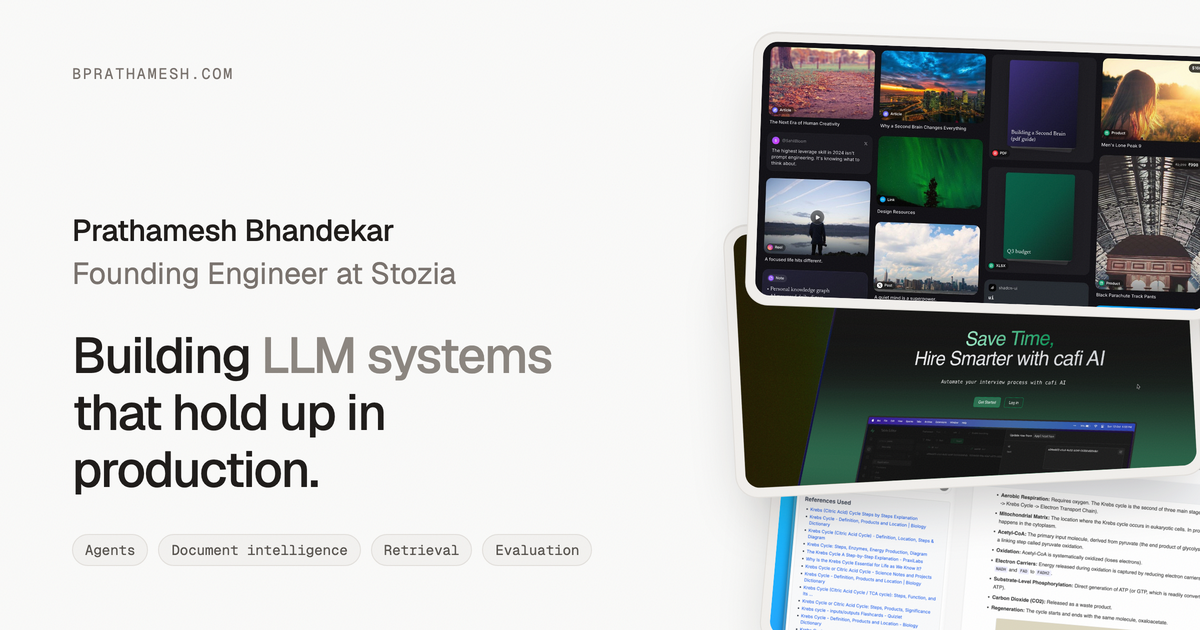
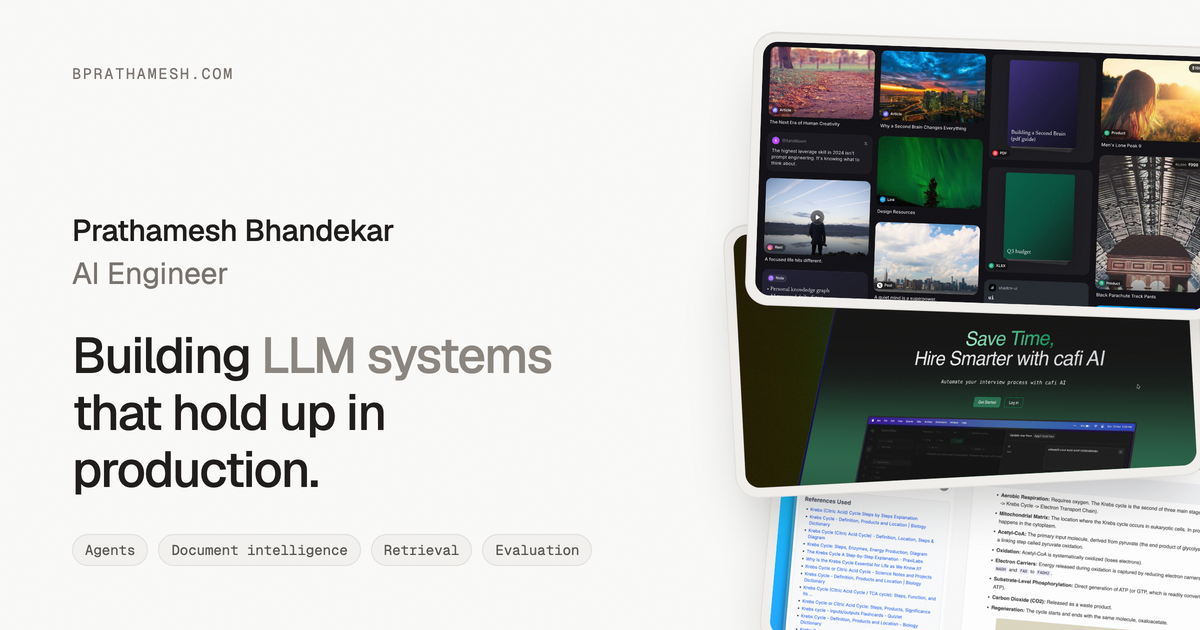
Position as a general AI engineer; keep Stozia as current role only
Header, hero, metadata, Person JSON-LD and share image now describe an
AI engineer rather than a Stozia-branded founding engineer. Experience
is trimmed to a single line; stats, bullets and education are removed.

Changed region(s): [[0.0617, 0.4222, 0.4008, 0.4524]]

diff --git a/app/page.tsx b/app/page.tsx
@@ -43,20 +43,6 @@ const focus = [
   },
 ]
 
-const stozia = {
-  stats: [
-    { value: "100M+", label: "LLM tokens processed" },
-    { value: "900+", label: "supplier quotes structured" },
-    { value: "50", label: "users at 7 manufacturers" },
-  ],
-  points: [
-    "Own the LLM pipeline layer: LangGraph multi-agent workflows for document interpretation, supplier discovery, cost modelling, quote comparison and negotiation planning.",
-    "Built multimodal document-intelligence pipelines that turned about 900 supplier quotes into structured commercial and engineering data across 225+ procurement cases.",
-    "Built an evaluation harness on held-out documents labelled by procurement experts to compare 18 models on field-level accuracy, latency and cost. Its results supported moving to a cheaper model with prompt caching: 37% modelled cost avoidance against uncached list pricing, with no accuracy loss on the labelled set.",
-    "Added per-agent observability for cost, latency, failures and tokens, and ship the FastAPI, MySQL, Celery and Redis services to Azure Container Apps through GitHub Actions.",
-  ],
-}
-
 export default function Portfolio() {
   const posts = getAllPosts().slice(0, 5)
   const projects = getAllProjects()
@@ -72,22 +58,22 @@ export default function Portfolio() {
         <BlurFade delay={0.1}>
           <section className="mt-14 space-y-5">
             <h1 className="text-[26px] font-medium leading-[1.3] tracking-[-0.02em] text-balance md:text-[30px]">
-              Founding engineer building{" "}
+              AI engineer building{" "}
               <span className="whitespace-nowrap text-muted-foreground">LLM systems</span> that hold
               up in production.
             </h1>
             <p className="text-[15px] leading-relaxed text-muted-foreground">
-              At{" "}
-              <a href={site.company.url} target="_blank" rel="noopener" className="link">
-                Stozia
-              </a>
-              , an AI sourcing platform for manufacturers, I own the LLM pipeline layer:
-              agents that read supplier documents, extract structured data, and draft
-              negotiation and approval recommendations. I care about the parts that decide
-              whether AI works in production: evaluation, cost, latency and observability.
+              I design and build LLM systems end to end: agentic workflows, document
+              intelligence, retrieval, and the evaluation that shows whether any of it
+              works. I care about what decides success in production: cost, latency,
+              observability and knowing when an answer is wrong.
             </p>
             <p className="text-[15px] leading-relaxed text-muted-foreground">
-              Outside work I build tools like{" "}
+              I currently work at{" "}
+              <a href={site.company.url} target="_blank" rel="noopener" className="link">
+                {site.company.name}
+              </a>
+              . On the side I build tools like{" "}
               <Link href="/projects/mindvault" className="link">
                 MindVault
               </Link>
@@ -136,67 +122,20 @@ export default function Portfolio() {
         </BlurFade>
 
         <Section title="Experience">
-          <ol className="space-y-12">
-            <li>
-              <div className="flex flex-wrap items-baseline justify-between gap-x-6 gap-y-1">
-                <h3 className="text-[15px] font-medium">
-                  Founding Engineer ·{" "}
-                  <a href={site.company.url} target="_blank" rel="noopener" className="link">
-                    Stozia
-                  </a>
-                </h3>
-                <span className="font-mono text-[11px] tabular-nums text-muted-foreground">
-                  Jun 2025 — Present
-                </span>
-              </div>
-              <p className="mt-1 text-[14px] text-muted-foreground">
-                AI-agentic sourcing platform for manufacturing procurement · founding team of fewer than ten
-              </p>
-
-              <dl className="mt-5 grid grid-cols-3 divide-x divide-dashed divide-border rounded-xl bg-card ring-1 ring-inset ring-border">
-                {stozia.stats.map((stat) => (
-                  <div key={stat.label} className="px-3 py-3.5 sm:px-4">
-                    <dt className="sr-only">{stat.label}</dt>
-                    <dd className="text-[20px] font-medium tracking-[-0.02em] tabular-nums">
-                      {stat.value}
-                    </dd>
-                    <dd className="mt-0.5 text-[12px] leading-snug text-muted-foreground">
-                      {stat.label}
-                    </dd>
-                  </div>
-                ))}
-              </dl>
-
-              <ul className="mt-5 space-y-2.5">
-                {stozia.points.map((point) => (
-                  <li
-                    key={point}
-                    className="relative pl-4 text-[14px] leading-relaxed text-muted-foreground before:absolute before:left-0 before:top-[0.7em] before:h-1 before:w-1 before:rounded-full before:bg-border"
-                  >
-                    {point}
-                  </li>
-                ))}
-              </ul>
-            </li>
-
-            <li>
-              <div className="flex flex-wrap items-baseline justify-between gap-x-6 gap-y-1">
-                <h3 className="text-[15px] font-medium">
-                  B.E. Computer Engineering · Savitribai Phule Pune University
-                </h3>
-                <span className="font-mono text-[11px] tabular-nums text-muted-foreground">
-                  2021 — 2025
-                </span>
-              </div>
-              <p className="mt-1 text-[14px] leading-relaxed text-muted-foreground">
-                MMIT, Pune · CGPA 8.52/10, First Class with Distinction. My final-year project,{" "}
-                <Link href="/projects/cafi-ai" className="link">
-                  Cafi AI
-                </Link>
-                , was graded Outstanding.
-              </p>
-            </li>
-          </ol>
+          <div className="flex flex-wrap items-baseline justify-between gap-x-6 gap-y-1">
+            <h3 className="text-[15px] font-medium">
+              Founding Engineer ·{" "}
+              <a href={site.company.url} target="_blank" rel="noopener" className="link">
+                {site.company.name}
+              </a>
+            </h3>
+            <span className="font-mono text-[11px] tabular-nums text-muted-foreground">
+              Jun 2025 — Present
+            </span>
+          </div>
+          <p className="mt-1 text-[14px] text-muted-foreground">
+            AI-agentic sourcing platform for manufacturing procurement
+          </p>
         </Section>
       </div>
 

diff --git a/app/layout.tsx b/app/layout.tsx
@@ -21,9 +21,9 @@ const SITE_URL = site.url;
 // Paste only the content="..." token below, then redeploy and click Verify.
 const GOOGLE_SITE_VERIFICATION = "REPLACE_WITH_GOOGLE_SEARCH_CONSOLE_TOKEN";
 
-const DEFAULT_TITLE = "Prathamesh Bhandekar — Founding Engineer, Applied AI";
+const DEFAULT_TITLE = "Prathamesh Bhandekar — AI Engineer";
 const SHORT_DESCRIPTION =
-  "Founding engineer at Stozia building production LLM systems: agentic workflows, document intelligence, retrieval and evaluation.";
+  "AI engineer building production LLM systems: agentic workflows, document intelligence, retrieval and evaluation.";
 
 export const metadata: Metadata = {
   metadataBase: new URL(SITE_URL),
@@ -34,7 +34,7 @@ export const metadata: Metadata = {
   description: site.description,
   keywords: [
     "Prathamesh Bhandekar",
-    "Founding Engineer",
+    "AI engineer",
     "Applied AI engineer",
     "LLM engineer",
     "AI agents",
@@ -73,7 +73,7 @@ const personJsonLd = {
   url: SITE_URL,
   image: `${SITE_URL}/opengraph-image.png`,
   email: `mailto:${site.email}`,
-  jobTitle: "Founding Engineer",
+  jobTitle: "AI Engineer",
   description: SHORT_DESCRIPTION,
   worksFor: {
     "@type": "Organization",
@@ -96,15 +96,6 @@ const personJsonLd = {
       name: "Marathwada Mitra Mandal's Institute of Technology (MMIT), Pune",
     },
   ],
-  hasCredential: {
-    "@type": "EducationalOccupationalCredential",
-    credentialCategory: "degree",
-    name: "Bachelor of Engineering (Computer Engineering)",
-    recognizedBy: {
-      "@type": "CollegeOrUniversity",
-      name: "Savitribai Phule Pune University",
-    },
-  },
   knowsAbout: [
     "Large language models",
     "AI agents",

diff --git a/lib/site.ts b/lib/site.ts
@@ -1,11 +1,10 @@
 export const site = {
   url: "https://www.bprathamesh.com",
   name: "Prathamesh Bhandekar",
-  title: "Founding Engineer",
+  role: "AI engineer · LLM systems & agents",
   company: { name: "Stozia", url: "https://www.stozia.com" },
-  tagline: "Founding engineer building production LLM systems",
   description:
-    "Prathamesh Bhandekar is a founding engineer at Stozia in Pune, building production LLM systems: agentic workflows, multimodal document intelligence, retrieval and model evaluation.",
+    "Prathamesh Bhandekar is an AI engineer in Pune building production LLM systems: agentic workflows, multimodal document intelligence, retrieval and model evaluation.",
   location: "Pune, IN",
   timeZone: "Asia/Kolkata",
   email: "bprathamesh2003@gmail.com",

diff --git a/components/site-header.tsx b/components/site-header.tsx
@@ -50,12 +50,7 @@ export function SiteHeader() {
           <ThemeToggle />
         </nav>
       </div>
-      <p className="text-[15px] text-muted-foreground">
-        {site.title} at{" "}
-        <a href={site.company.url} target="_blank" rel="noopener" className="link text-muted-foreground hover:text-foreground">
-          {site.company.name}
-        </a>
-      </p>
+      <p className="text-[15px] text-muted-foreground">{site.role}</p>
       <p className="mt-3 font-mono text-[11px] text-muted-foreground">
         {site.location} · <LocalTime />
       </p>
